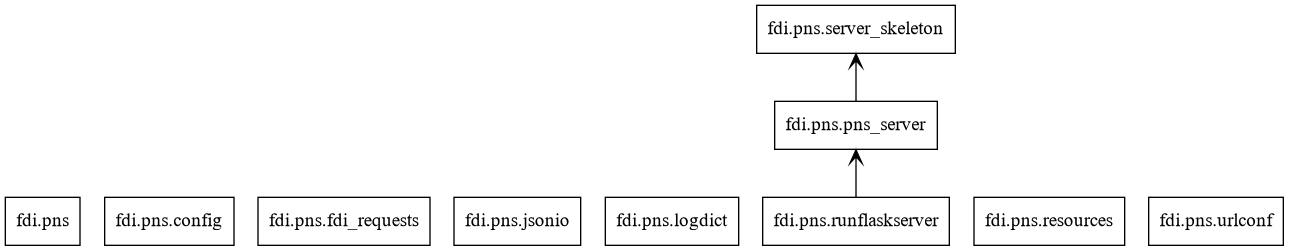
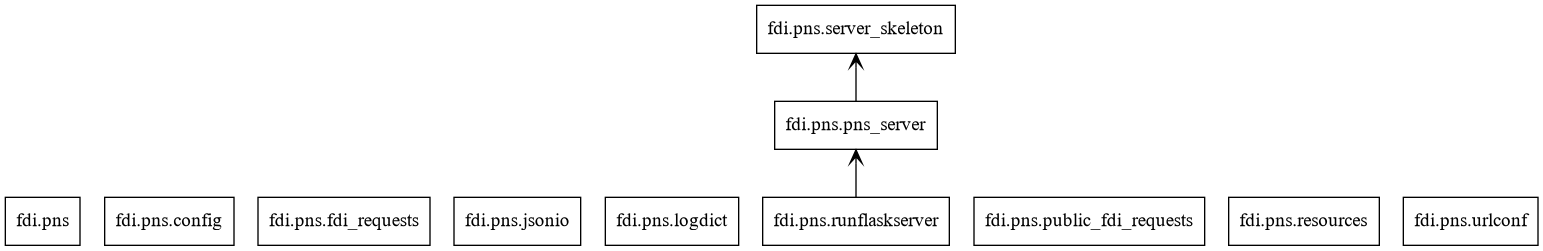
improve find_all_files; docs

diff --git a/fdi/utils/common.py b/fdi/utils/common.py
@@ -11,6 +11,7 @@ import traceback
 import pprint
 import textwrap
 import copy
+import fnmatch
 import os
 from pathlib import Path
 import pwd
@@ -658,31 +659,32 @@ def findShape(data, element_seq=(str)):
 def find_all_files(datadir, verbose=False, include=None, exclude=None, not_if=None):
     """ returns a list of names of all files in `datadir`.
 
-    :name: of starting directory
+    :name: of starting directory or a list of file name strings to filter.
     :include: only if a file name has any of these sub-strings.
     :exclude: only if a file name has not any of these sub-strings. Empty strings are removed.
-    :not_if: a function that returns true if given a name of unwanted file. default is None, ```os.is_dir```, which excludes directories.
+    :not_if: a function that returns true if given a name of unwanted file. default is None, (which excludes directories when `datadir` is a string, and disabled if `datadir` is a `list`.
     """
 
     allf = []
-    if not_if is None:
-        not_if = os.path.isdir
-    # def ok(f, inc, exc, verbose=False):
-    #     if inc and all(i not in f for i in inc):
-    #         return False
-    #     if exc and any(e in f for e in exc):
-    #         return False
-    #     return True
+
     if not include:
         include = '*'
-    inc = Path(datadir).glob(include)
-    #li = list(inc)
+
+    isadir = issubclass(datadir.__class__, str)
+    if isadir:
+        if not_if is None:
+            not_if = os.path.isdir
+        inc = Path(datadir).glob(include)
+        inc = list(str(f) for f in inc)
+    else:
+        inc = fnmatch.filter(datadir, include)
+
     #print("find", len(inc))
 
     if exclude is None:
         exclude = []
-    allf = list(str(f) for f in inc if not any(
-        e in f.name for e in exclude if e != '') and not (not_if(f)))
+    allf = list(f for f in inc if not any(
+        e in f for e in exclude if e != '') and not (isadir and not_if(f)))
 
     # for root, dirs, files in os.walk(datadir):
     #     if verbose:

diff --git a/docs/sphinx/api/fdi/fdi.utils.rst b/docs/sphinx/api/fdi/fdi.utils.rst
@@ -73,6 +73,14 @@ fdi.utils.json\_to\_yaml module
    :undoc-members:
    :show-inheritance:
 
+fdi.utils.jsonpath module
+-------------------------
+
+.. automodule:: fdi.utils.jsonpath
+   :members:
+   :undoc-members:
+   :show-inheritance:
+
 fdi.utils.leapseconds module
 ----------------------------
 
@@ -157,6 +165,14 @@ fdi.utils.tree module
 ---------------------
 
 .. automodule:: fdi.utils.tree
+   :members:
+   :undoc-members:
+   :show-inheritance:
+
+fdi.utils.validator module
+--------------------------
+
+.. automodule:: fdi.utils.validator
    :members:
    :undoc-members:
    :show-inheritance:

diff --git a/docs/sphinx/api/fdi/fdi.pns.rst b/docs/sphinx/api/fdi/fdi.pns.rst
@@ -49,6 +49,14 @@ fdi.pns.pns\_server module
    :undoc-members:
    :show-inheritance:
 
+fdi.pns.public\_fdi\_requests module
+------------------------------------
+
+.. automodule:: fdi.pns.public_fdi_requests
+   :members:
+   :undoc-members:
+   :show-inheritance:
+
 fdi.pns.runflaskserver module
 -----------------------------
 

diff --git a/docs/sphinx/api/fdi/fdi.pal.rst b/docs/sphinx/api/fdi/fdi.pal.rst
@@ -113,6 +113,14 @@ fdi.pal.productstorage module
    :undoc-members:
    :show-inheritance:
 
+fdi.pal.publicclientpool module
+-------------------------------
+
+.. automodule:: fdi.pal.publicclientpool
+   :members:
+   :undoc-members:
+   :show-inheritance:
+
 fdi.pal.query module
 --------------------
 
